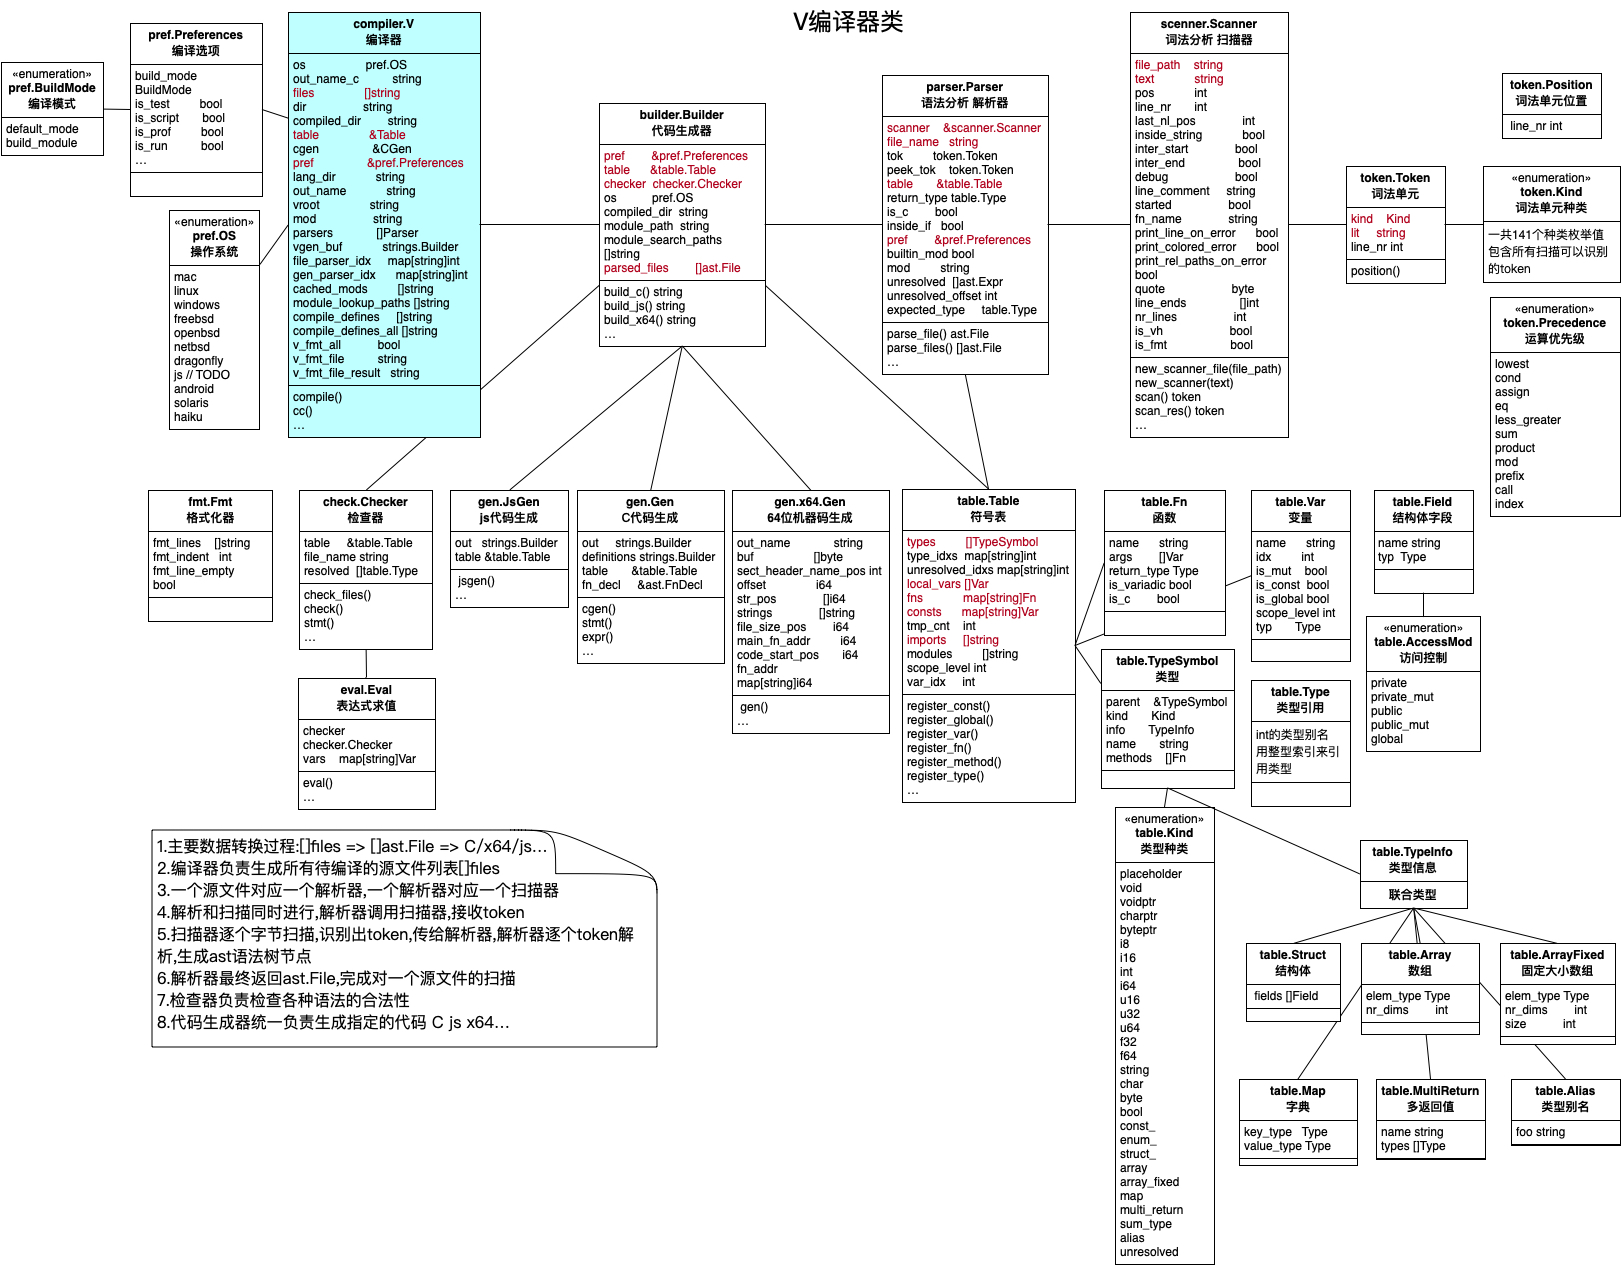
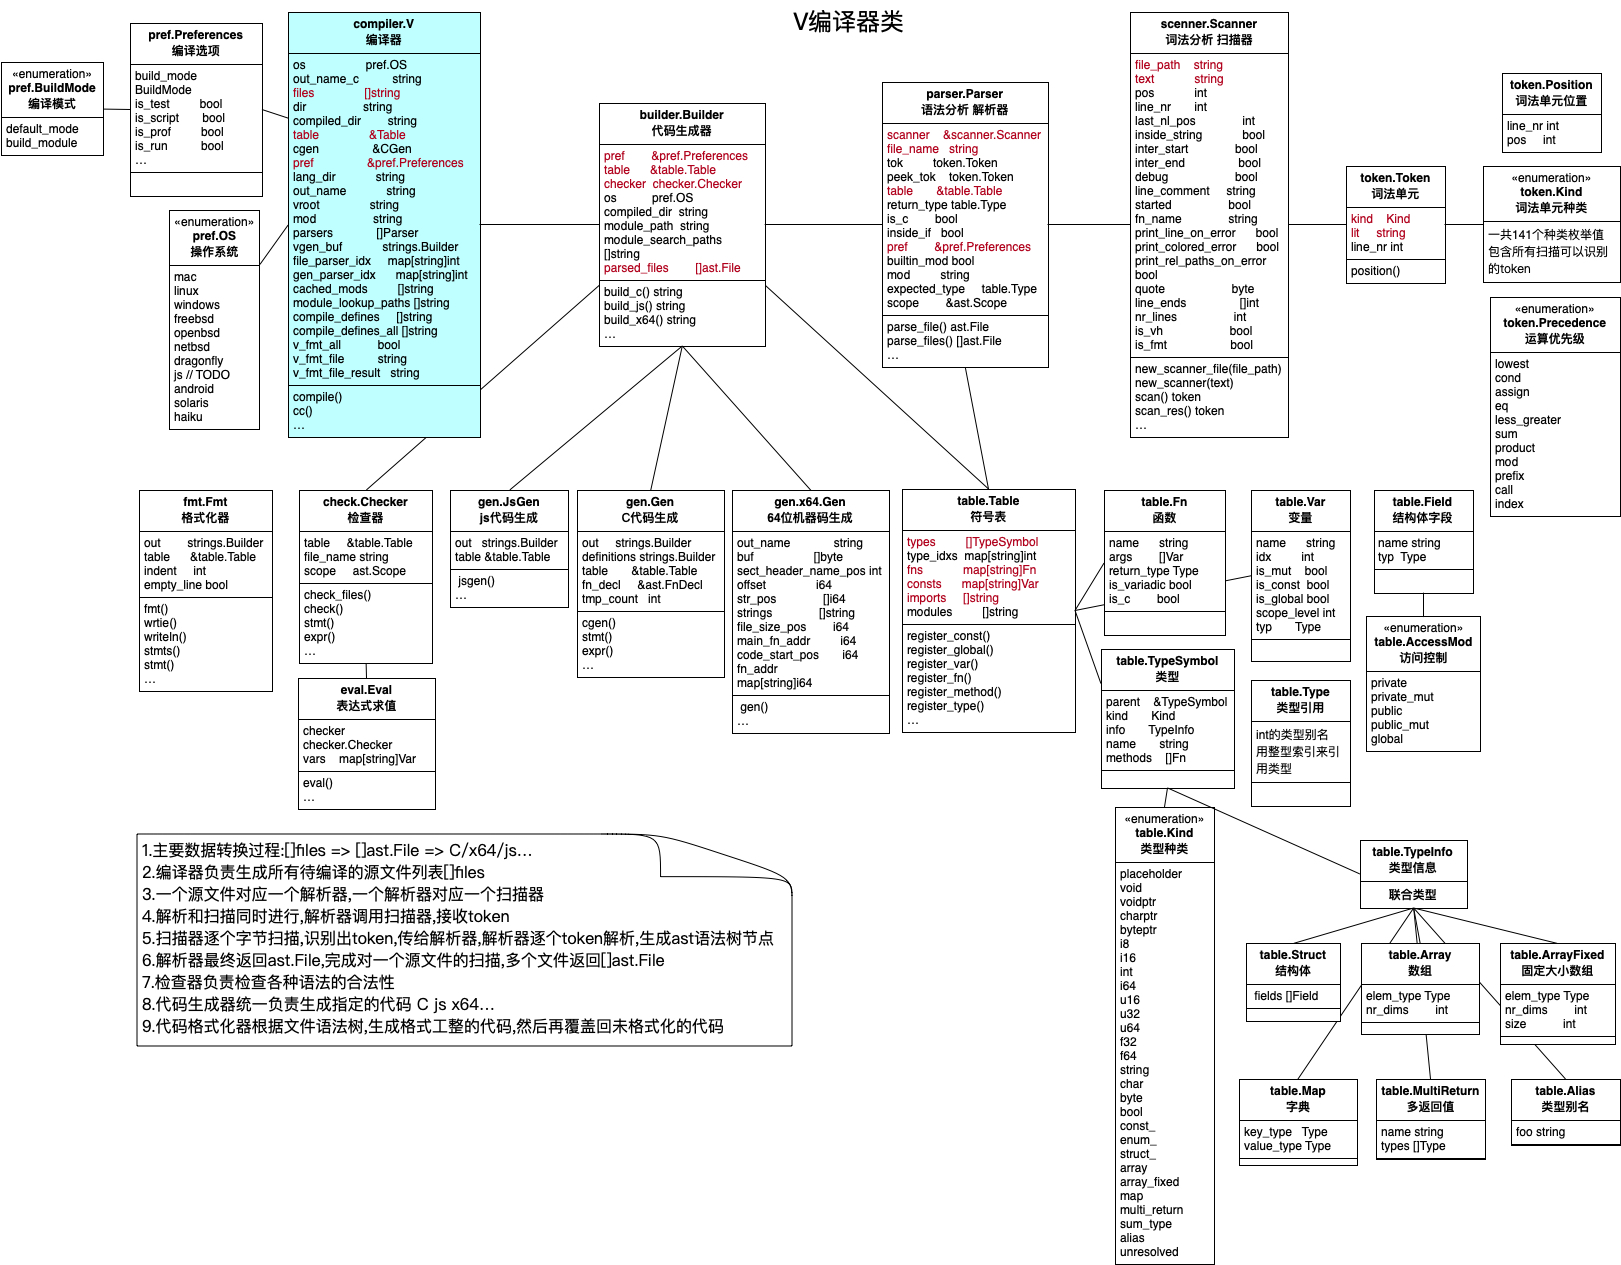
更新V编译器源代码

diff --git a/content/compiler.md b/content/compiler.md
@@ -474,11 +474,17 @@ V命令行代码位于cmd目录
   
   代码格式化类型,负责源代码格式化
   
-  | 字段/方法            | 说明 |
-  | -------------------- | ---- |
-  | fmt_lines  []string  |      |
-  | fmt_indent  int      |      |
-  | fmt_line_empty  bool |      |
+  | 字段/方法              | 说明                                                    |
+  | ---------------------- | ------------------------------------------------------- |
+  | out    strings.Builder | 格式化后的代码字符串                                    |
+  | table   &table.Table   | 符号表的引用                                            |
+  | indent   int           | 格式化过程变量,记录代码缩进的等级                       |
+  | empty_line bool        | 格式化过程变量,记录当前行是否是空行,如果是,要先生成缩进 |
+  | fmt()                  | 格式化代码某个文件                                      |
+  | wrtie()                | 往out字符串写入代码                                     |
+  | writeln()              | 往out字符串写入代码,并换行                              |
+  | stmts()                | 格式化多个语句                                          |
+  | stmt()                 | 格式化单个语句                                          |
   
 
 ### AST语法树类
@@ -498,16 +504,15 @@ V命令行代码位于cmd目录
 对应的V源代码:
 
 ```rust
-pub type Expr = InfixExpr | IfExpr | StringLiteral | IntegerLiteral | 
-CharLiteral |FloatLiteral | Ident | CallExpr | BoolLiteral | StructInit | 
-ArrayInit | SelectorExpr | PostfixExpr |
-AssignExpr | PrefixExpr | MethodCallExpr | IndexExpr | RangeExpr | 
-MatchExpr | CastExpr | EnumVal
+pub type Expr = InfixExpr | IfExpr | StringLiteral | IntegerLiteral | CharLiteral | 	
+FloatLiteral | Ident | CallExpr | BoolLiteral | StructInit | ArrayInit | SelectorExpr | PostfixExpr | 	
+AssignExpr | PrefixExpr | MethodCallExpr | IndexExpr | RangeExpr | MatchExpr | 	
+CastExpr | EnumVal | Assoc | SizeOf
 
-pub type Stmt = VarDecl | GlobalDecl | FnDecl | Return | Module | Import 
-| ExprStmt | ForStmt | StructDecl | ForCStmt | ForInStmt | CompIf | 
-ConstDecl | Attr | BranchStmt | HashStmt | AssignStmt | EnumDecl | 
-TypeDecl | DeferStmt
+pub type Stmt = VarDecl | GlobalDecl | FnDecl | Return | Module | Import | ExprStmt | 	
+ForStmt | StructDecl | ForCStmt | ForInStmt | CompIf | ConstDecl | Attr | BranchStmt | 	
+HashStmt | AssignStmt | EnumDecl | TypeDecl | DeferStmt | GotoLabel | GotoStmt | 	
+LineComment | MultiLineComment
 ```
 
 实际代码生成的语法树对象实在是太大,嵌套层级多
